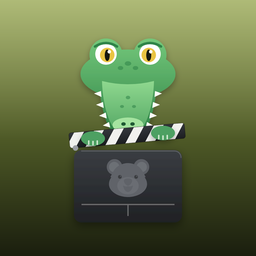
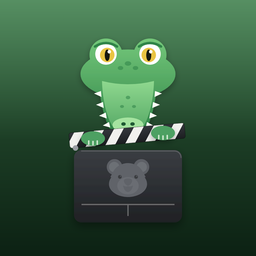
Croc's colour: the croc's green instead of olive

diff --git a/public/build/assets/app-np7sO5oS.css b/public/build/assets/app-np7sO5oS.css
@@ -1,0 +1,2 @@
+/*! tailwindcss v4.3.3 | MIT License | https://tailwindcss.com */
+@layer properties{@supports (((-webkit-hyphens:none)) and (not (margin-trim:inline))) or ((-moz-orient:inline) and (not (color:rgb(from red r g b)))){*,:before,:after,::backdrop{--tw-space-y-reverse:0;--tw-divide-y-reverse:0;--tw-border-style:solid;--tw-gradient-position:initial;--tw-gradient-from:#0000;--tw-gradient-via:#0000;--tw-gradient-to:#0000;--tw-gradient-stops:initial;--tw-gradient-via-stops:initial;--tw-gradient-from-position:0%;--tw-gradient-via-position:50%;--tw-gradient-to-position:100%;--tw-font-weight:initial;--tw-tracking:initial;--tw-ordinal:initial;--tw-slashed-zero:initial;--tw-numeric-figure:initial;--tw-numeric-spacing:initial;--tw-numeric-fraction:initial;--tw-shadow:0 0 #0000;--tw-shadow-color:initial;--tw-shadow-alpha:100%;--tw-inset-shadow:0 0 #0000;--tw-inset-shadow-color:initial;--tw-inset-shadow-alpha:100%;--tw-ring-color:initial;--tw-ring-shadow:0 0 #0000;--tw-inset-ring-color:initial;--tw-inset-ring-shadow:0 0 #0000;--tw-ring-inset:initial;--tw-ring-offset-width:0px;--tw-ring-offset-color:#fff;--tw-ring-offset-shadow:0 0 #0000;--tw-outline-style:solid}}}@layer theme{:root,:host{--font-sans:var(--font-inter), ui-sans-serif, system-ui, sans-serif;--font-mono:ui-monospace, SFMono-Regular, Menlo, Monaco, Consolas, "Liberation Mono", "Courier New", monospace;--color-green-600:oklch(62.7% .194 149.214);--color-neutral-500:oklch(55.6% 0 none);--color-neutral-600:oklch(43.9% 0 none);--color-neutral-700:oklch(37.1% 0 none);--color-neutral-800:oklch(26.9% 0 none);--color-neutral-950:oklch(14.5% 0 none);--color-black:#000;--color-white:#fff;--spacing:.25rem;--container-5xl:64rem;--container-6xl:72rem;--text-xs:.75rem;--text-sm:.875rem;--text-base:1rem;--text-base--line-height:calc(1.5 / 1);--text-lg:1.125rem;--text-xl:1.25rem;--text-xl--line-height:calc(1.75 / 1.25);--text-2xl:1.5rem;--text-2xl--line-height:calc(2 / 1.5);--text-4xl:2.25rem;--text-4xl--line-height:calc(2.5 / 2.25);--text-5xl:3rem;--text-5xl--line-height:1;--text-7xl:4.5rem;--text-7xl--line-height:1;--font-weight-normal:400;--font-weight-medium:500;--font-weight-semibold:600;--tracking-tight:-.025em;--radius-md:.375rem;--radius-lg:.5rem;--radius-xl:.75rem;--radius-2xl:1rem;--default-font-family:var(--font-sans);--default-font-feature-settings:var(--font-sans--font-feature-settings);--default-mono-font-family:var(--font-mono);--font-sans--font-feature-settings:"cv02", "cv03", "cv04", "cv11";--font-display:var(--font-figtree), ui-sans-serif, system-ui, sans-serif;--color-billabong-50:#eff8f0;--color-billabong-100:#d9eedc;--color-billabong-200:#b5ddbb;--color-billabong-300:#86c590;--color-billabong-400:#5aa968;--color-billabong-500:#3a8d4b;--color-billabong-600:#2c733b;--color-billabong-700:#255c31;--color-billabong-800:#214a2b;--color-billabong-900:#1c3d25;--color-billabong-950:#0c2113}}@layer base{*,:after,:before,::backdrop{box-sizing:border-box;border:0 solid;margin:0;padding:0}::file-selector-button{box-sizing:border-box;border:0 solid;margin:0;padding:0}html,:host{-webkit-text-size-adjust:100%;tab-size:4;line-height:1.5;font-family:var(--default-font-family,-apple-system, BlinkMacSystemFont, "Segoe UI", Roboto, "Helvetica Neue", "Noto Sans", Arial, sans-serif, "Apple Color Emoji", "Segoe UI Emoji", "Segoe UI Symbol", "Noto Color Emoji");font-feature-settings:var(--default-font-feature-settings,normal);font-variation-settings:var(--default-font-variation-settings,normal);-webkit-tap-highlight-color:transparent}hr{height:0;color:inherit;border-top-width:1px}abbr:where([title]){-webkit-text-decoration:underline dotted;text-decoration:underline dotted}h1,h2,h3,h4,h5,h6{font-size:inherit;font-weight:inherit}a{color:inherit;-webkit-text-decoration:inherit;-webkit-text-decoration:inherit;-webkit-text-decoration:inherit;-webkit-text-decoration:inherit;text-decoration:inherit}b,strong{font-weight:bolder}code,kbd,samp,pre{font-family:var(--default-mono-font-family,ui-monospace, SFMono-Regular, Menlo, Monaco, Consolas, "Liberation Mono", "Courier New", monospace);font-feature-settings:var(--default-mono-font-feature-settings,normal);font-variation-settings:var(--default-mono-font-variation-settings,normal);font-size:1em}small{font-size:80%}sub,sup{vertical-align:baseline;font-size:75%;line-height:0;position:relative}sub{bottom:-.25em}sup{top:-.5em}table{text-indent:0;border-color:inherit;border-collapse:collapse}:-moz-focusring:where(:not(iframe)){outline:auto}progress{vertical-align:baseline}summary{display:list-item}ol,ul,menu{list-style:none}img,svg,video,canvas,audio,iframe,embed,object{vertical-align:middle;display:block}img,video{max-width:100%;height:auto}button,input,select,optgroup,textarea{font:inherit;font-feature-settings:inherit;font-variation-settings:inherit;letter-spacing:inherit;color:inherit;opacity:1;background-color:#0000;border-radius:0}::file-selector-button{font:inherit;font-feature-settings:inherit;font-variation-settings:inherit;letter-spacing:inherit;color:inherit;opacity:1;background-color:#0000;border-radius:0}:where(select:is([multiple],[size])) optgroup{font-weight:bolder}:where(select:is([multiple],[size])) optgroup option{padding-inline-start:20px}::file-selector-button{margin-inline-end:4px}::placeholder{opacity:1}@supports (not ((-webkit-appearance:-apple-pay-button))) or (contain-intrinsic-size:1px){::placeholder{color:currentColor}@supports (color:color-mix(in lab, red, red)){::placeholder{color:color-mix(in oklab, currentcolor 50%, transparent)}}}textarea{resize:vertical}::-webkit-search-decoration{-webkit-appearance:none}::-webkit-date-and-time-value{min-height:1lh;text-align:inherit}::-webkit-datetime-edit{display:inline-flex}::-webkit-datetime-edit-fields-wrapper{padding:0}::-webkit-datetime-edit{padding-block:0}::-webkit-datetime-edit-year-field{padding-block:0}::-webkit-datetime-edit-month-field{padding-block:0}::-webkit-datetime-edit-day-field{padding-block:0}::-webkit-datetime-edit-hour-field{padding-block:0}::-webkit-datetime-edit-minute-field{padding-block:0}::-webkit-datetime-edit-second-field{padding-block:0}::-webkit-datetime-edit-millisecond-field{padding-block:0}::-webkit-datetime-edit-meridiem-field{padding-block:0}::-webkit-calendar-picker-indicator{line-height:1}:-moz-ui-invalid{box-shadow:none}button,input:where([type=button],[type=reset],[type=submit]){appearance:button}::file-selector-button{appearance:button}::-webkit-inner-spin-button{height:auto}::-webkit-outer-spin-button{height:auto}[hidden]:where(:not([hidden=until-found])){display:none!important}}@layer components;@layer utilities{.absolute{position:absolute}.relative{position:relative}.inset-x-0{inset-inline:0}.top-0{top:0}.isolate{isolation:isolate}.-z-10{z-index:calc(10 * -1)}.m-0{margin:0}.mx-auto{margin-inline:auto}.mt-0\.5{margin-top:calc(var(--spacing) * .5)}.mt-1{margin-top:var(--spacing)}.mt-2{margin-top:calc(var(--spacing) * 2)}.mt-2\.5{margin-top:calc(var(--spacing) * 2.5)}.mt-3{margin-top:calc(var(--spacing) * 3)}.mt-4{margin-top:calc(var(--spacing) * 4)}.mt-6{margin-top:calc(var(--spacing) * 6)}.mt-8{margin-top:calc(var(--spacing) * 8)}.mt-10{margin-top:calc(var(--spacing) * 10)}.mt-12{margin-top:calc(var(--spacing) * 12)}.mt-16{margin-top:calc(var(--spacing) * 16)}.ml-auto{margin-left:auto}.flex{display:flex}.grid{display:grid}.hidden{display:none}.inline-flex{display:inline-flex}.size-1\.5{width:calc(var(--spacing) * 1.5);height:calc(var(--spacing) * 1.5)}.size-3{width:calc(var(--spacing) * 3);height:calc(var(--spacing) * 3)}.size-4{width:calc(var(--spacing) * 4);height:calc(var(--spacing) * 4)}.size-5{width:calc(var(--spacing) * 5);height:calc(var(--spacing) * 5)}.size-7{width:calc(var(--spacing) * 7);height:calc(var(--spacing) * 7)}.size-8{width:calc(var(--spacing) * 8);height:calc(var(--spacing) * 8)}.size-32{width:calc(var(--spacing) * 32);height:calc(var(--spacing) * 32)}.size-\[22rem\]{width:22rem;height:22rem}.h-1\.5{height:calc(var(--spacing) * 1.5)}.h-6{height:calc(var(--spacing) * 6)}.h-\[44rem\]{height:44rem}.h-\[630px\]{height:630px}.h-full{height:100%}.h-lh{height:1lh}.w-9{width:calc(var(--spacing) * 9)}.w-20{width:calc(var(--spacing) * 20)}.w-\[1200px\]{width:1200px}.max-w-5xl{max-width:var(--container-5xl)}.max-w-6xl{max-width:var(--container-6xl)}.max-w-\[20ch\]{max-width:20ch}.max-w-\[24ch\]{max-width:24ch}.max-w-\[30ch\]{max-width:30ch}.max-w-\[48ch\]{max-width:48ch}.max-w-\[52ch\]{max-width:52ch}.max-w-\[60ch\]{max-width:60ch}.max-w-\[65ch\]{max-width:65ch}.min-w-0{min-width:0}.shrink-0{flex-shrink:0}.grow{flex-grow:1}.scroll-mt-8{scroll-margin-top:calc(var(--spacing) * 8)}.grid-cols-1{grid-template-columns:repeat(1,minmax(0,1fr))}.flex-col{flex-direction:column}.flex-wrap{flex-wrap:wrap}.place-items-center{place-items:center}.items-baseline{align-items:baseline}.items-center{align-items:center}.items-start{align-items:flex-start}.justify-between{justify-content:space-between}.justify-center{justify-content:center}.gap-3{gap:calc(var(--spacing) * 3)}.gap-6{gap:calc(var(--spacing) * 6)}.gap-8{gap:calc(var(--spacing) * 8)}:where(.space-y-3>:not(:last-child)){--tw-space-y-reverse:0;margin-block-start:calc(calc(var(--spacing) * 3) * var(--tw-space-y-reverse));margin-block-end:calc(calc(var(--spacing) * 3) * calc(1 - var(--tw-space-y-reverse)))}:where(.space-y-4>:not(:last-child)){--tw-space-y-reverse:0;margin-block-start:calc(calc(var(--spacing) * 4) * var(--tw-space-y-reverse));margin-block-end:calc(calc(var(--spacing) * 4) * calc(1 - var(--tw-space-y-reverse)))}.gap-x-1\.5{column-gap:calc(var(--spacing) * 1.5)}.gap-x-2{column-gap:calc(var(--spacing) * 2)}.gap-x-3{column-gap:calc(var(--spacing) * 3)}.gap-x-6{column-gap:calc(var(--spacing) * 6)}.gap-x-8{column-gap:calc(var(--spacing) * 8)}.gap-x-12{column-gap:calc(var(--spacing) * 12)}.gap-x-16{column-gap:calc(var(--spacing) * 16)}.gap-y-2{row-gap:calc(var(--spacing) * 2)}.gap-y-4{row-gap:calc(var(--spacing) * 4)}.gap-y-12{row-gap:calc(var(--spacing) * 12)}.gap-y-16{row-gap:calc(var(--spacing) * 16)}:where(.divide-y>:not(:last-child)){--tw-divide-y-reverse:0;border-bottom-style:var(--tw-border-style);border-top-style:var(--tw-border-style);border-top-width:calc(1px * var(--tw-divide-y-reverse));border-bottom-width:calc(1px * calc(1 - var(--tw-divide-y-reverse)))}:where(.divide-billabong-950\/10>:not(:last-child)){border-color:#0c21131a}@supports (color:color-mix(in lab, red, red)){:where(.divide-billabong-950\/10>:not(:last-child)){border-color:color-mix(in oklab, var(--color-billabong-950) 10%, transparent)}}:where(.divide-neutral-950\/5>:not(:last-child)){border-color:#0a0a0a0d}@supports (color:color-mix(in lab, red, red)){:where(.divide-neutral-950\/5>:not(:last-child)){border-color:color-mix(in oklab, var(--color-neutral-950) 5%, transparent)}}.self-center{align-self:center}.truncate{text-overflow:ellipsis;white-space:nowrap;overflow:hidden}.overflow-hidden{overflow:hidden}.rounded-2xl{border-radius:var(--radius-2xl)}.rounded-\[5px\]{border-radius:5px}.rounded-full{border-radius:2147483647px}.rounded-lg{border-radius:var(--radius-lg)}.rounded-md{border-radius:var(--radius-md)}.rounded-xl{border-radius:var(--radius-xl)}.border-t{border-top-style:var(--tw-border-style);border-top-width:1px}.border-b{border-bottom-style:var(--tw-border-style);border-bottom-width:1px}.border-neutral-950\/5{border-color:#0a0a0a0d}@supports (color:color-mix(in lab, red, red)){.border-neutral-950\/5{border-color:color-mix(in oklab, var(--color-neutral-950) 5%, transparent)}}.border-white\/10{border-color:#ffffff1a}@supports (color:color-mix(in lab, red, red)){.border-white\/10{border-color:color-mix(in oklab, var(--color-white) 10%, transparent)}}.bg-\[\#28c840\]{background-color:#28c840}.bg-\[\#febc2e\]{background-color:#febc2e}.bg-\[\#ff5f57\]{background-color:#ff5f57}.bg-billabong-50{background-color:var(--color-billabong-50)}.bg-billabong-400{background-color:var(--color-billabong-400)}.bg-billabong-500{background-color:var(--color-billabong-500)}.bg-billabong-600{background-color:var(--color-billabong-600)}.bg-billabong-600\/10{background-color:#2c733b1a}@supports (color:color-mix(in lab, red, red)){.bg-billabong-600\/10{background-color:color-mix(in oklab, var(--color-billabong-600) 10%, transparent)}}.bg-billabong-950{background-color:var(--color-billabong-950)}.bg-black\/30{background-color:#0000004d}@supports (color:color-mix(in lab, red, red)){.bg-black\/30{background-color:color-mix(in oklab, var(--color-black) 30%, transparent)}}.bg-green-600\/10{background-color:#00a5441a}@supports (color:color-mix(in lab, red, red)){.bg-green-600\/10{background-color:color-mix(in oklab, var(--color-green-600) 10%, transparent)}}.bg-neutral-950\/5{background-color:#0a0a0a0d}@supports (color:color-mix(in lab, red, red)){.bg-neutral-950\/5{background-color:color-mix(in oklab, var(--color-neutral-950) 5%, transparent)}}.bg-neutral-950\/10{background-color:#0a0a0a1a}@supports (color:color-mix(in lab, red, red)){.bg-neutral-950\/10{background-color:color-mix(in oklab, var(--color-neutral-950) 10%, transparent)}}.bg-white{background-color:var(--color-white)}.bg-white\/5{background-color:#ffffff0d}@supports (color:color-mix(in lab, red, red)){.bg-white\/5{background-color:color-mix(in oklab, var(--color-white) 5%, transparent)}}.bg-linear-to-b{--tw-gradient-position:to bottom}@supports (background-image:linear-gradient(in lab, red, red)){.bg-linear-to-b{--tw-gradient-position:to bottom in oklab}}.bg-linear-to-b{background-image:linear-gradient(var(--tw-gradient-stops))}.bg-linear-to-br{--tw-gradient-position:to bottom right}@supports (background-image:linear-gradient(in lab, red, red)){.bg-linear-to-br{--tw-gradient-position:to bottom right in oklab}}.bg-linear-to-br{background-image:linear-gradient(var(--tw-gradient-stops))}.from-billabong-50{--tw-gradient-from:var(--color-billabong-50);--tw-gradient-stops:var(--tw-gradient-via-stops,var(--tw-gradient-position), var(--tw-gradient-from) var(--tw-gradient-from-position), var(--tw-gradient-to) var(--tw-gradient-to-position))}.from-billabong-900{--tw-gradient-from:var(--color-billabong-900);--tw-gradient-stops:var(--tw-gradient-via-stops,var(--tw-gradient-position), var(--tw-gradient-from) var(--tw-gradient-from-position), var(--tw-gradient-to) var(--tw-gradient-to-position))}.via-white{--tw-gradient-via:var(--color-white);--tw-gradient-via-stops:var(--tw-gradient-position), var(--tw-gradient-from) var(--tw-gradient-from-position), var(--tw-gradient-via) var(--tw-gradient-via-position), var(--tw-gradient-to) var(--tw-gradient-to-position);--tw-gradient-stops:var(--tw-gradient-via-stops)}.to-billabong-100{--tw-gradient-to:var(--color-billabong-100);--tw-gradient-stops:var(--tw-gradient-via-stops,var(--tw-gradient-position), var(--tw-gradient-from) var(--tw-gradient-from-position), var(--tw-gradient-to) var(--tw-gradient-to-position))}.to-billabong-950{--tw-gradient-to:var(--color-billabong-950);--tw-gradient-stops:var(--tw-gradient-via-stops,var(--tw-gradient-position), var(--tw-gradient-from) var(--tw-gradient-from-position), var(--tw-gradient-to) var(--tw-gradient-to-position))}.to-white{--tw-gradient-to:var(--color-white);--tw-gradient-stops:var(--tw-gradient-via-stops,var(--tw-gradient-position), var(--tw-gradient-from) var(--tw-gradient-from-position), var(--tw-gradient-to) var(--tw-gradient-to-position))}.fill-billabong-300{fill:var(--color-billabong-300)}.fill-billabong-500{fill:var(--color-billabong-500)}.fill-billabong-600{fill:var(--color-billabong-600)}.fill-current{fill:currentColor}.fill-green-600{fill:var(--color-green-600)}.fill-white{fill:var(--color-white)}.p-0\.5{padding:calc(var(--spacing) * .5)}.p-3{padding:calc(var(--spacing) * 3)}.p-4{padding:calc(var(--spacing) * 4)}.p-8{padding:calc(var(--spacing) * 8)}.px-2{padding-inline:calc(var(--spacing) * 2)}.px-2\.5{padding-inline:calc(var(--spacing) * 2.5)}.px-3{padding-inline:calc(var(--spacing) * 3)}.px-4{padding-inline:calc(var(--spacing) * 4)}.px-6{padding-inline:calc(var(--spacing) * 6)}.px-24{padding-inline:calc(var(--spacing) * 24)}.py-0\.5{padding-block:calc(var(--spacing) * .5)}.py-1{padding-block:var(--spacing)}.py-1\.5{padding-block:calc(var(--spacing) * 1.5)}.py-3{padding-block:calc(var(--spacing) * 3)}.py-5{padding-block:calc(var(--spacing) * 5)}.py-6{padding-block:calc(var(--spacing) * 6)}.py-10{padding-block:calc(var(--spacing) * 10)}.py-12{padding-block:calc(var(--spacing) * 12)}.py-24{padding-block:calc(var(--spacing) * 24)}.pt-3{padding-top:calc(var(--spacing) * 3)}.pt-5{padding-top:calc(var(--spacing) * 5)}.pt-6{padding-top:calc(var(--spacing) * 6)}.pt-8{padding-top:calc(var(--spacing) * 8)}.pt-10{padding-top:calc(var(--spacing) * 10)}.pr-5{padding-right:calc(var(--spacing) * 5)}.pb-4{padding-bottom:calc(var(--spacing) * 4)}.pb-6{padding-bottom:calc(var(--spacing) * 6)}.pb-24{padding-bottom:calc(var(--spacing) * 24)}.pl-4{padding-left:calc(var(--spacing) * 4)}.pl-8{padding-left:calc(var(--spacing) * 8)}.text-center{text-align:center}.text-left{text-align:left}.text-right{text-align:right}.font-sans{font-family:var(--font-sans);font-feature-settings:var(--font-sans--font-feature-settings)}.font-display{font-family:var(--font-display)}.font-mono{font-family:var(--font-mono)}.text-2xl{font-size:var(--text-2xl);line-height:var(--tw-leading,var(--text-2xl--line-height))}.text-4xl{font-size:var(--text-4xl);line-height:var(--tw-leading,var(--text-4xl--line-height))}.text-5xl{font-size:var(--text-5xl);line-height:var(--tw-leading,var(--text-5xl--line-height))}.text-base{font-size:var(--text-base);line-height:var(--tw-leading,var(--text-base--line-height))}.text-base\/6{font-size:var(--text-base);line-height:calc(var(--spacing) * 6)}.text-base\/7{font-size:var(--text-base);line-height:calc(var(--spacing) * 7)}.text-lg\/8{font-size:var(--text-lg);line-height:calc(var(--spacing) * 8)}.text-sm\/6{font-size:var(--text-sm);line-height:calc(var(--spacing) * 6)}.text-xl{font-size:var(--text-xl);line-height:var(--tw-leading,var(--text-xl--line-height))}.text-xs\/4{font-size:var(--text-xs);line-height:calc(var(--spacing) * 4)}.text-xs\/5{font-size:var(--text-xs);line-height:calc(var(--spacing) * 5)}.text-\[7rem\]{font-size:7rem}.font-medium{--tw-font-weight:var(--font-weight-medium);font-weight:var(--font-weight-medium)}.font-normal{--tw-font-weight:var(--font-weight-normal);font-weight:var(--font-weight-normal)}.font-semibold{--tw-font-weight:var(--font-weight-semibold);font-weight:var(--font-weight-semibold)}.tracking-tight{--tw-tracking:var(--tracking-tight);letter-spacing:var(--tracking-tight)}.text-balance{text-wrap:balance}.text-pretty{text-wrap:pretty}.\[overflow-wrap\:anywhere\]{overflow-wrap:anywhere}.whitespace-nowrap{white-space:nowrap}.whitespace-pre-wrap{white-space:pre-wrap}.text-billabong-100{color:var(--color-billabong-100)}.text-billabong-100\/70{color:#d9eedcb3}@supports (color:color-mix(in lab, red, red)){.text-billabong-100\/70{color:color-mix(in oklab, var(--color-billabong-100) 70%, transparent)}}.text-billabong-200{color:var(--color-billabong-200)}.text-billabong-300{color:var(--color-billabong-300)}.text-billabong-600{color:var(--color-billabong-600)}.text-billabong-700{color:var(--color-billabong-700)}.text-billabong-800{color:var(--color-billabong-800)}.text-billabong-950{color:var(--color-billabong-950)}.text-green-600{color:var(--color-green-600)}.text-neutral-500{color:var(--color-neutral-500)}.text-neutral-600{color:var(--color-neutral-600)}.text-neutral-700{color:var(--color-neutral-700)}.text-neutral-800{color:var(--color-neutral-800)}.text-neutral-950{color:var(--color-neutral-950)}.text-white{color:var(--color-white)}.tabular-nums{--tw-numeric-spacing:tabular-nums;font-variant-numeric:var(--tw-ordinal,) var(--tw-slashed-zero,) var(--tw-numeric-figure,) var(--tw-numeric-spacing,) var(--tw-numeric-fraction,)}.underline{text-decoration-line:underline}.decoration-billabong-300{-webkit-text-decoration-color:var(--color-billabong-300);-webkit-text-decoration-color:var(--color-billabong-300);-webkit-text-decoration-color:var(--color-billabong-300);text-decoration-color:var(--color-billabong-300)}.underline-offset-4{text-underline-offset:4px}.antialiased{-webkit-font-smoothing:antialiased;-moz-osx-font-smoothing:grayscale}.shadow-2xl{--tw-shadow:0 25px 50px -12px var(--tw-shadow-color,#00000040);box-shadow:var(--tw-inset-shadow), var(--tw-inset-ring-shadow), var(--tw-ring-offset-shadow), var(--tw-ring-shadow), var(--tw-shadow)}.shadow-sm{--tw-shadow:0 1px 3px 0 var(--tw-shadow-color,#0000001a), 0 1px 2px -1px var(--tw-shadow-color,#0000001a);box-shadow:var(--tw-inset-shadow), var(--tw-inset-ring-shadow), var(--tw-ring-offset-shadow), var(--tw-ring-shadow), var(--tw-shadow)}.shadow-xs{--tw-shadow:0 1px 2px 0 var(--tw-shadow-color,#0000000d);box-shadow:var(--tw-inset-shadow), var(--tw-inset-ring-shadow), var(--tw-ring-offset-shadow), var(--tw-ring-shadow), var(--tw-shadow)}.ring-1{--tw-ring-shadow:var(--tw-ring-inset,) 0 0 0 calc(1px + var(--tw-ring-offset-width)) var(--tw-ring-color,currentcolor);box-shadow:var(--tw-inset-shadow), var(--tw-inset-ring-shadow), var(--tw-ring-offset-shadow), var(--tw-ring-shadow), var(--tw-shadow)}.ring-2{--tw-ring-shadow:var(--tw-ring-inset,) 0 0 0 calc(2px + var(--tw-ring-offset-width)) var(--tw-ring-color,currentcolor);box-shadow:var(--tw-inset-shadow), var(--tw-inset-ring-shadow), var(--tw-ring-offset-shadow), var(--tw-ring-shadow), var(--tw-shadow)}.ring-billabong-300\/50{--tw-ring-color:#86c59080}@supports (color:color-mix(in lab, red, red)){.ring-billabong-300\/50{--tw-ring-color:color-mix(in oklab, var(--color-billabong-300) 50%, transparent)}}.ring-billabong-500{--tw-ring-color:var(--color-billabong-500)}.ring-billabong-950\/5{--tw-ring-color:#0c21130d}@supports (color:color-mix(in lab, red, red)){.ring-billabong-950\/5{--tw-ring-color:color-mix(in oklab, var(--color-billabong-950) 5%, transparent)}}.ring-billabong-950\/10{--tw-ring-color:#0c21131a}@supports (color:color-mix(in lab, red, red)){.ring-billabong-950\/10{--tw-ring-color:color-mix(in oklab, var(--color-billabong-950) 10%, transparent)}}.ring-white\/5{--tw-ring-color:#ffffff0d}@supports (color:color-mix(in lab, red, red)){.ring-white\/5{--tw-ring-color:color-mix(in oklab, var(--color-white) 5%, transparent)}}.ring-white\/10{--tw-ring-color:#ffffff1a}@supports (color:color-mix(in lab, red, red)){.ring-white\/10{--tw-ring-color:color-mix(in oklab, var(--color-white) 10%, transparent)}}@media (hover:hover){.hover\:bg-billabong-50:hover{background-color:var(--color-billabong-50)}.hover\:bg-billabong-700:hover{background-color:var(--color-billabong-700)}.hover\:text-billabong-600:hover{color:var(--color-billabong-600)}.hover\:text-billabong-700:hover{color:var(--color-billabong-700)}.hover\:decoration-billabong-600:hover{-webkit-text-decoration-color:var(--color-billabong-600);-webkit-text-decoration-color:var(--color-billabong-600);-webkit-text-decoration-color:var(--color-billabong-600);text-decoration-color:var(--color-billabong-600)}}.focus-visible\:outline-2:focus-visible{outline-style:var(--tw-outline-style);outline-width:2px}.focus-visible\:outline-offset-2:focus-visible{outline-offset:2px}.focus-visible\:outline-billabong-600:focus-visible{outline-color:var(--color-billabong-600)}@media (prefers-reduced-motion:no-preference){.motion-safe\:scroll-smooth{scroll-behavior:smooth}}@media not all and (width>=48rem){.max-md\:hidden{display:none}}@media not all and (width>=40rem){.max-sm\:hidden{display:none}}@media (width>=40rem){.sm\:mt-20{margin-top:calc(var(--spacing) * 20)}.sm\:mt-auto{margin-top:auto}.sm\:size-9{width:calc(var(--spacing) * 9);height:calc(var(--spacing) * 9)}.sm\:size-40{width:calc(var(--spacing) * 40);height:calc(var(--spacing) * 40)}.sm\:w-36{width:calc(var(--spacing) * 36)}.sm\:grid-cols-2{grid-template-columns:repeat(2,minmax(0,1fr))}.sm\:grid-cols-\[12rem_1fr\]{grid-template-columns:12rem 1fr}.sm\:flex-row{flex-direction:row}.sm\:items-center{align-items:center}.sm\:justify-between{justify-content:space-between}.sm\:p-4{padding:calc(var(--spacing) * 4)}.sm\:px-2\.5{padding-inline:calc(var(--spacing) * 2.5)}.sm\:px-4{padding-inline:calc(var(--spacing) * 4)}.sm\:px-6{padding-inline:calc(var(--spacing) * 6)}.sm\:py-32{padding-block:calc(var(--spacing) * 32)}.sm\:pt-6{padding-top:calc(var(--spacing) * 6)}.sm\:pt-16{padding-top:calc(var(--spacing) * 16)}.sm\:pb-5{padding-bottom:calc(var(--spacing) * 5)}.sm\:pb-8{padding-bottom:calc(var(--spacing) * 8)}.sm\:pb-32{padding-bottom:calc(var(--spacing) * 32)}.sm\:text-5xl{font-size:var(--text-5xl);line-height:var(--tw-leading,var(--text-5xl--line-height))}.sm\:text-7xl{font-size:var(--text-7xl);line-height:var(--tw-leading,var(--text-7xl--line-height))}.sm\:text-base{font-size:var(--text-base);line-height:var(--tw-leading,var(--text-base--line-height))}.sm\:text-sm\/5{font-size:var(--text-sm);line-height:calc(var(--spacing) * 5)}.sm\:text-sm\/6{font-size:var(--text-sm);line-height:calc(var(--spacing) * 6)}.sm\:text-xl\/8{font-size:var(--text-xl);line-height:calc(var(--spacing) * 8)}}@media (width>=48rem){.md\:grid-cols-3{grid-template-columns:repeat(3,minmax(0,1fr))}}@media (width>=64rem){.lg\:grid-cols-2{grid-template-columns:repeat(2,minmax(0,1fr))}.lg\:grid-cols-3{grid-template-columns:repeat(3,minmax(0,1fr))}.lg\:grid-cols-4{grid-template-columns:repeat(4,minmax(0,1fr))}.lg\:px-8{padding-inline:calc(var(--spacing) * 8)}}}@property --tw-space-y-reverse{syntax:"*";inherits:false;initial-value:0}@property --tw-divide-y-reverse{syntax:"*";inherits:false;initial-value:0}@property --tw-border-style{syntax:"*";inherits:false;initial-value:solid}@property --tw-gradient-position{syntax:"*";inherits:false}@property --tw-gradient-from{syntax:"<color>";inherits:false;initial-value:#0000}@property --tw-gradient-via{syntax:"<color>";inherits:false;initial-value:#0000}@property --tw-gradient-to{syntax:"<color>";inherits:false;initial-value:#0000}@property --tw-gradient-stops{syntax:"*";inherits:false}@property --tw-gradient-via-stops{syntax:"*";inherits:false}@property --tw-gradient-from-position{syntax:"<length-percentage>";inherits:false;initial-value:0%}@property --tw-gradient-via-position{syntax:"<length-percentage>";inherits:false;initial-value:50%}@property --tw-gradient-to-position{syntax:"<length-percentage>";inherits:false;initial-value:100%}@property --tw-font-weight{syntax:"*";inherits:false}@property --tw-tracking{syntax:"*";inherits:false}@property --tw-ordinal{syntax:"*";inherits:false}@property --tw-slashed-zero{syntax:"*";inherits:false}@property --tw-numeric-figure{syntax:"*";inherits:false}@property --tw-numeric-spacing{syntax:"*";inherits:false}@property --tw-numeric-fraction{syntax:"*";inherits:false}@property --tw-shadow{syntax:"*";inherits:false;initial-value:0 0 #0000}@property --tw-shadow-color{syntax:"*";inherits:false}@property --tw-shadow-alpha{syntax:"<percentage>";inherits:false;initial-value:100%}@property --tw-inset-shadow{syntax:"*";inherits:false;initial-value:0 0 #0000}@property --tw-inset-shadow-color{syntax:"*";inherits:false}@property --tw-inset-shadow-alpha{syntax:"<percentage>";inherits:false;initial-value:100%}@property --tw-ring-color{syntax:"*";inherits:false}@property --tw-ring-shadow{syntax:"*";inherits:false;initial-value:0 0 #0000}@property --tw-inset-ring-color{syntax:"*";inherits:false}@property --tw-inset-ring-shadow{syntax:"*";inherits:false;initial-value:0 0 #0000}@property --tw-ring-inset{syntax:"*";inherits:false}@property --tw-ring-offset-width{syntax:"<length>";inherits:false;initial-value:0}@property --tw-ring-offset-color{syntax:"*";inherits:false;initial-value:#fff}@property --tw-ring-offset-shadow{syntax:"*";inherits:false;initial-value:0 0 #0000}@property --tw-outline-style{syntax:"*";inherits:false;initial-value:solid}

diff --git a/resources/css/app.css b/resources/css/app.css
@@ -9,16 +9,16 @@
     --font-sans--font-feature-settings: 'cv02', 'cv03', 'cv04', 'cv11';
     --font-display: var(--font-figtree), ui-sans-serif, system-ui, sans-serif;
 
-    /* Billabong: the murky olive of the app icon, the still water a croc waits in. The brand colour. */
-    --color-billabong-50: #f6f7ee;
-    --color-billabong-100: #eaedd6;
-    --color-billabong-200: #d5dcae;
-    --color-billabong-300: #b8c47d;
-    --color-billabong-400: #9aa955;
-    --color-billabong-500: #7d8c3b;
-    --color-billabong-600: #62702d;
-    --color-billabong-700: #4d5826;
-    --color-billabong-800: #3f4723;
-    --color-billabong-900: #2f351b;
-    --color-billabong-950: #1a1e0e;
+    /* Billabong: the green of the croc on the app icon, the water it waits in. The brand colour. */
+    --color-billabong-50: #eff8f0;
+    --color-billabong-100: #d9eedc;
+    --color-billabong-200: #b5ddbb;
+    --color-billabong-300: #86c590;
+    --color-billabong-400: #5aa968;
+    --color-billabong-500: #3a8d4b;
+    --color-billabong-600: #2c733b;
+    --color-billabong-700: #255c31;
+    --color-billabong-800: #214a2b;
+    --color-billabong-900: #1c3d25;
+    --color-billabong-950: #0c2113;
 }

diff --git a/resources/views/home.blade.php b/resources/views/home.blade.php
@@ -91,7 +91,7 @@
                             </div>
                             <p class="mt-4 text-sm/6 font-semibold text-billabong-200">{{ $format['for'] }}</p>
                             <p class="mt-2 text-base/7 text-pretty text-billabong-100/70">{{ $format['body'] }}</p>
-                            <pre class="mt-8 rounded-lg whitespace-pre-wrap break-all bg-black/30 p-4 font-mono text-xs/5 text-billabong-100 ring-1 ring-white/5 sm:mt-auto"><code>{{ $format['snippet'] }}</code></pre>
+                            <pre class="mt-8 rounded-lg whitespace-pre-wrap [overflow-wrap:anywhere] bg-black/30 p-4 font-mono text-xs/5 text-billabong-100 ring-1 ring-white/5 sm:mt-auto"><code>{{ $format['snippet'] }}</code></pre>
                         </div>
                     @endforeach
                 </div>

diff --git a/README.md b/README.md
@@ -32,7 +32,7 @@ npm run build     # if you changed the design; commit public/build
 | `resources/views/home.blade.php` | The landing page |
 | `resources/views/components/app-window.blade.php` | The Croc window mock in the hero |
 | `resources/views/components/layouts/app.blade.php` | The HTML shell, fonts and meta tags |
-| `resources/css/app.css` | Theme colors (`billabong` for the icon's murky olive) and fonts |
+| `resources/css/app.css` | Theme colors (`billabong` for the croc's green) and fonts |
 | `config/croc.php` | Repository and download links |
 | `public/images/croc.png` | The app icon, rendered by `scripts/make-icon.mjs` in the app's repository |
 
